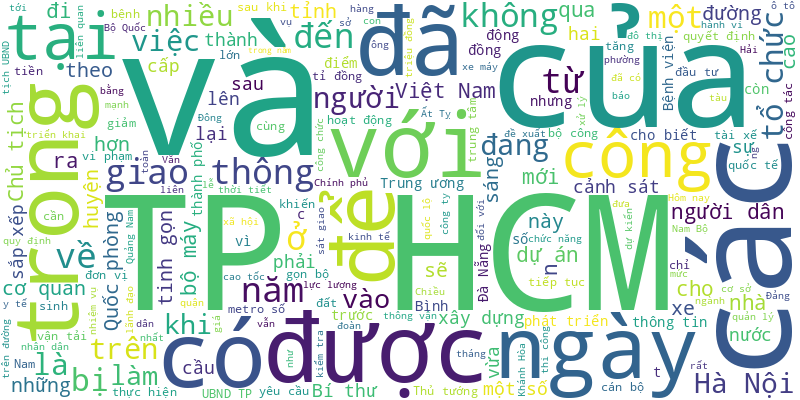
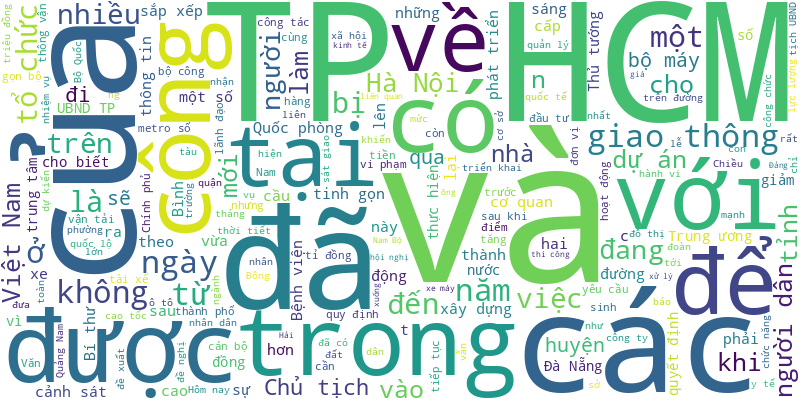
🍀 = 100%

diff --git a/README.md b/README.md
@@ -1,6 +1,14 @@
 # Tuoi Tre RSS 
 
 ## Giáo dục 
+- Bộ Giáo dục và Đào tạo vừa ban hành thông tư quy định về dạy thêm, học thêm với nhiều điểm mới.
+- Những sinh viên là nhà sư sẽ khó đạt được danh hiệu 'Sinh viên 5 tốt' vì vướng tiêu chí 'thể lực tốt'.
+- Nhiều ý kiến ủng hộ việc 'cấm giáo viên dạy thêm tại nhà', nhưng cũng không ít băn khoăn.
+- Mỗi suất học bổng trị giá 10 triệu đồng, trao cho các thủ khoa đầu vào đại học ở các trường, ngành năm 2024.
+- Chương trình một ngày làm sinh viên luật của Trường đại học Luật TP.HCM thu hút hơn 400 học sinh THPT tại TP.HCM và các tỉnh lân cận hào hứng tham gia.
+- Dự án công ích sẽ cung cấp nhà ở miễn phí trong 7 ngày cho sinh viên mới tốt nghiệp tìm việc trong thời gian từ 14-11-2024 đến 30-6-2025.
+- Ông Thomas J. Vallely, một trong những người thúc đẩy thành lập Trường ĐH Fulbright Việt Nam, vừa được Tổng thống Joe Biden vinh danh với Huân chương Công dân tổng thống.
+- Đại học Quốc gia TP.HCM chính thức khởi động chuỗi chương trình hòa nhạc dành cho sinh viên với chủ đề 'Giao hưởng tuổi trẻ' năm 2025.
 - Trước những kỳ thi quan trọng sẽ là lần đầu tiên diễn ra theo Chương trình giáo dục phổ thông 2018, nhiều học sinh lớp 12 không khỏi lo lắng và tận dụng dịp Tết này để "nấu sử xôi kinh".
 - Năm 2025, Đại học Kinh tế quốc dân dự kiến tuyển sinh 73 mã ngành/chương trình với 89 chương trình đào tạo, và 3 phương thức tuyển sinh chính.
 - Một giáo viên Trường THPT Phan Ngọc Hiển (huyện Năm Căn, tỉnh Cà Mau) đã nhận 7 triệu đồng để dạy kèm thi lại cho một học sinh. Giáo viên bị nhà trường kỷ luật khiển trách.
@@ -993,17 +1001,52 @@
 - Để tránh những hệ lụy đau lòng xuất phát từ việc sử dụng mạng xã hội thiếu ý thức và yếu kỹ năng, gia đình - nhà trường - xã hội phải quyết liệt vào cuộc.
 - Từ hơn 300 thí sinh, cuộc thi học thuật cấp thành 'Hướng dẫn viên du lịch tiềm năng' đã tìm ra quán quân.
 - Không chỉ kêu gọi cán bộ, giảng viên ủng hộ ít nhất một ngày lương, trích tiền quỹ ra ủng hộ đồng bào vùng lũ, nhiều trường còn rà soát tổng số sinh viên trong trường bị ảnh hưởng bởi lũ lụt để lên phương án hỗ trợ.
-- Đây là một trong những mục tiêu trong mục tiêu hợp tác của Trường đại học Luật TP.HCM và UBND tỉnh Khánh Hòa.
-- Hiện có quá nhiều thông tin tư vấn, cách tổ chức khá giống nhau khiến cho học sinh 'ngộp'. Do vậy rất cần chương trình tư vấn tuyển sinh chất lượng.
-- Tổ chức giáo dục Ormiston Academies Trust sẽ tiên phong trong việc cấm học sinh sử dụng điện thoại thông minh (smartphone) trong trường học.
-- 'Bão lũ đang gây hậu quả vô cùng nghiêm trọng cho đồng bào các tỉnh phía Bắc. Nhìn thấy những hình ảnh đau xót, chúng tôi không thể đứng ngoài cuộc”, TS Phan Hồng Hải, hiệu trưởng Trường đại học Công nghiệp TP.HCM, chia sẻ.
-- GS.TS Đào Văn Đông được bổ nhiệm làm hiệu trưởng Trường đại học Thái Bình Dương kể từ năm học 2024-2025.
-- Giải thưởng khoa học và công nghệ dành cho giảng viên trẻ trong các cơ sở giáo dục đại học định kỳ tổ chức 3 năm một lần.
-- Bài báo "'Cấm học sinh sử dụng điện thoại trong trường' (Tuổi Trẻ ngày 13-9) thu hút sự quan tâm của dư luận.
-- Hàng loạt trường đại học sau các đợt xét tuyển bổ sung đến nay vẫn còn thiếu cả ngàn chỉ tiêu. Nhiều trường quyết định khép lại mùa tuyển sinh 2024 do cạn nguồn tuyển.
 ![Edu](Edu.png)
 ## Thời Sự 
-- Phòng Cảnh sát giao thông Công an Hà Nội khẳng định thông tin 'thanh niên thu về 50 triệu đồng sau 1 ngày tố giác vi phạm giao thông' là sai sự thật.
+- Nghị định 168 tăng mức xử phạt đã thay đổi ý thức tham gia giao thông của nhiều người, qua ngã tư không còn chen vượt đèn đỏ.
+- Ngày 4-1, Thủ tướng đã dự và trao quyết định phê duyệt quy hoạch TP.HCM thời kỳ 2021 - 2030, tầm nhìn đến năm 2050 cho lãnh đạo TP.HCM.
+- Một số người biện minh hành vi đánh người của mình là do căng thẳng, áp lực cuộc sống. Tuy nhiên, không thể dùng nó như một lý do biện hộ cho hành vi bạo lực.
+- Một số tin tức đáng chú ý: Quy định mới liên quan niên hạn ô tô; Chứng khoán KIS Việt Nam có chủ tịch mới; Phạt Công ty Herbalife Việt Nam 205 triệu đồng...
+- Hôm nay 5-1, thời tiết cả nước tương đối ổn định, mưa giảm, nhiệt độ cũng giảm nhẹ.
+- Ngày 4-1, Trung tâm Kiểm soát bệnh tật tỉnh Đồng Nai cho biết trên địa bàn vừa ghi nhận một trường hợp bé gái 4 tuổi tử vong do bệnh ho gà.
+- Những sinh viên là nhà sư sẽ khó đạt được danh hiệu 'Sinh viên 5 tốt' vì vướng tiêu chí 'thể lực tốt'.
+- Hiệp hội Du lịch Nha Trang - Khánh Hòa vừa có văn bản đề xuất 'xử lý triệt để' đối với các loại ô tô, taxi và để xe khách du lịch trên 29 chỗ 'được lưu thông vào trung tâm TP Nha Trang trong khung giờ cao điểm'.
+- Thủ tướng Phạm Minh Chính vừa ký các quyết định phê chuẩn kết quả bầu, miễn nhiệm chức vụ chủ tịch UBND tỉnh Kiên Giang và Hà Giang.
+- 'Xuân biên phòng ấm lòng dân bản' năm 2025 đã mang lại cho người dân vùng biên giới TP Hà Tiên một cái Tết Nguyên đán Ất Tỵ ấm áp, no đủ.
+- Đây là thông tin Thủ tướng Phạm Minh Chính nêu ra tại hội nghị rà soát, tháo gỡ những dự án, công trình tồn đọng tại TP.HCM.
+- Trên đường đến trung tâm y tế, sản phụ Hồ Thị Léc trở dạ và được lái xe đồn biên phòng và chồng hỗ trợ sinh ngay trên xe của đơn vị.
+- Thủ tướng Chính phủ vừa có quyết định bổ sung hai tuyến cao tốc vào quy hoạch là Quảng Ngãi - Kon Tum và Cà Mau - Đất Mũi.
+- Trong chuyến công tác tại TP.HCM, Thủ tướng Phạm Minh Chính đã rà soát, cho ý kiến tháo gỡ khó khăn, vướng mắc liên quan đến dự án tại TP.HCM.
+- Đồn biên phòng Vĩnh Điều (huyện Giang Thành, Kiên Giang) vừa bắt quả tang nam thanh niên vận chuyển trái phép hàng cấm khoảng 15kg pháo.
+- Thủ tướng cho biết đã đề nghị tỉ phú Phạm Nhật Vượng xây dựng một hệ thống tàu điện ngầm từ trung tâm TP.HCM đến huyện Cần Giờ.
+- Khoảng 6 tháng nay, anh Huỳnh Ngọc Cường thường kéo xe hút đinh, cũng như nhặt ve chai dọc trên quốc lộ 1 từ TP.HCM về Long An.
+- Bộ Giao thông vận tải đề nghị UBND TP.HCM, Long An, Tiền Giang sớm có ý kiến về bộ trước ngày 8-1 để báo cáo Thủ tướng.
+- Hai người nhận là phóng viên báo dọa viết bài phản ánh vi phạm rồi ép doanh nghiệp phải ký hợp đồng tuyên truyền quảng cáo từ 55-95 triệu đồng.
+- Bộ trưởng Phạm Thị Thanh Trà yêu cầu rà soát, tinh giản biên chế sau khi hoàn thành việc hợp nhất Bộ Lao động - Thương binh và Xã hội với Bộ Nội vụ.
+- Thủ tướng bày tỏ điều cần quan tâm nhất là việc thực hiện quy hoạch để ra của cải vật chất, người dân phải được hưởng lợi từ việc thực hiện quy hoạch.
+- Đại tá Nguyễn Đức Hải, giám đốc Công an tỉnh Quảng Trị, được điều động làm giám đốc Công an tỉnh Đồng Nai.
+- Cán bộ, công chức, viên chức, người lao động trên địa bàn tỉnh Bạc Liêu sẽ được lãnh lương tháng 2 trước Tết Nguyên đán Ất Tỵ 2025.
+- Khi chờ đèn đỏ có được rẽ phải hay không? Rẽ phải trong trường hợp nào sẽ không vi phạm luật giao thông?
+- Con trăn gấm dài khoảng 4m, ước nặng gần 100kg được phát hiện ở bìa rừng Rạch Vẹm, xã Gành Dầu, TP Phú Quốc.
+- UBND TP.HCM tổ chức hội nghị công bố quy hoạch TP.HCM thời kỳ 2021-2030, tầm nhìn đến năm 2050 với sự tham dự của Thủ tướng Phạm Minh Chính.
+- Sau sắp xếp, tinh gọn bộ máy, Kiên Giang dư 6 giám đốc sở và hàng chục trưởng phòng.
+- Liên tiếp những vụ hành hung do mâu thuẫn khi va chạm nhẹ trên đường, vì đâu nên nỗi?
+- Sau khi va quẹt giao thông, nạn nhân đã bị Lê Văn Hiền đánh đập tới tấp dẫn đến dập não phải đi cấp cứu tại bệnh viện và đã tử vong. Nghi phạm đánh người đầu thú và bị tạm giữ.
+- Sáng 4-1, Lực lượng vũ trang TP.HCM đã được phong tặng danh hiệu Anh hùng Lực lượng vũ trang nhân dân lần 3.
+- 0h12 ngày 4-1, trực thăng mang số hiệu VN-8620 thuộc Binh đoàn 18 (Bộ Quốc phòng) bay cấp cứu quân nhân được chẩn đoán viêm màng não, tiên lượng nặng từ đảo An Bang, đã hạ cánh an toàn xuống Bệnh viện Quân y 175, TP.HCM.
+- UBND tỉnh Bắc Ninh đề xuất chuyển đổi sân bay Gia Bình thành cảng hàng không công suất quy hoạch dự kiến từ 1 - 3 triệu hành khách/năm, dự phòng mở rộng công suất khoảng 5 triệu hành khách/năm.
+- Bực tức việc mẹ ngủ, không chuẩn bị đồ ăn sáng cho mình, Khanh dùng dao đâm chết mẹ rồi chờ trời tối kéo thi thể ném xuống sông phi tang.
+- Cơ sở sản xuất ván lạng ở Bình Phước bị xử phạt gần 60 triệu đồng do sử dụng lao động nước ngoài trái phép.
+- Đại diện đội cảnh sát giao thông - trật tự Công an TP Thủ Đức cho biết vẫn chưa mời được chủ xe Audi 'chạy đến đâu đèn tín hiệu loạn xạ đến đó' lên làm việc nên không rõ clip trên có cắt ghép hay không.
+- Thanh tra An Giang xác định hàng loạt vi phạm pháp luật về đầu tư công và dự án khu dân cư và chuyển hồ sơ sang công an để điều tra.
+- Tại dự thảo Luật Tổ chức Chính phủ (sửa đổi), Bộ Nội vụ đề xuất thiết kế theo hướng phân định và khái quát hóa các nhóm nhiệm vụ của Thủ tướng.
+- Thủ tướng Phạm Minh Chính yêu cầu các bộ ngành, địa phương không coi trung tâm tài chính là công việc của riêng TP.HCM và Đà Nẵng mà là việc chung của đất nước, toàn hệ thống phải cùng làm, cùng phát triển.
+- Nhiều chuyên gia khẳng định đây là thời điểm lý tưởng để đưa TP.HCM thành trung tâm tài chính toàn cầu. Tất nhiên, để thực hiện kế hoạch này còn nhiều việc phải làm.
+- TP.HCM đặt mục tiêu đến năm 2035 sẽ có 7 tuyến metro có chiều dài 355km. Bên cạnh cơ chế và chính sách đặc thù, cần thêm giải pháp giúp tối ưu hóa hiệu quả và giảm trở ngại trong quá trình xây dựng.
+- Không ít đoạn sông Đáy ở Hà Nội bị ô nhiễm cực độ, GS Vũ Trọng Hồng đề nghị lắp đặt ngay bơm thuyền để cứu dòng sông.
+- UBND tỉnh Khánh Hòa vừa có phương án sắp xếp các cơ quan trực thuộc, gồm có tên các sở sau khi hợp nhất và hướng sắp xếp nhân sự lãnh đạo các đơn vị sáp nhập, hợp nhất.
+- TP.HCM đang đứng trước cơ hội lịch sử để trở thành trung tâm tài chính quốc tế - một giấc mơ được ấp ủ hơn 20 năm với sự ủng hộ từ Bộ Chính trị, mở ra triển vọng mới cho sự phát triển kinh tế không chỉ của thành phố mà còn của cả Việt Nam.
+- Phòng cảnh sát giao thông Công an Hà Nội khẳng định thông tin 'thanh niên thu về 50 triệu đồng sau 1 ngày tố giác vi phạm giao thông' là sai sự thật.
 - Ngày 4-1, Thủ tướng Phạm Minh Chính dự lễ công bố xây dựng Trung tâm tài chính khu vực và quốc tế tại Việt Nam; công bố quy hoạch TP.HCM.
 - Tin tức đáng chú ý: Gần Tết số vụ lừa đảo trực tuyến tăng mạnh; Hà Nội nhiều nhà tái định cư hoang phế; TP.HCM tăng cường kiểm tra nhà ở kết hợp sản xuất kinh doanh...
 - Hôm nay 4-1, thời tiết Bắc Bộ ngày nắng, trời lạnh. Trung Bộ mưa rào, Nam Bộ có mây, mưa rào và dông vài nơi.
@@ -1960,51 +2003,9 @@
 - Diễn biến này theo đúng lộ trình mà UBND TP.HCM đặt ra trong quyết định Ban hành giá dịch vụ thoát nước và xử lý nước thải trên địa bàn TP giai đoạn 2021 - 2025.
 - Sở Y tế TP.HCM cho biết đã xử phạt và cho vào danh sách 'đen' nhiều phòng khám có hành vi vi phạm.
 - Khu đất Cảng Sài Gòn đề nghị làm dự án cảng tàu khách quốc tế Nhà Rồng - Khánh Hội đang vướng một dự án khác.
-- Vụ việc tại Trường quốc tế Ngôi sao Sài Gòn (Saigon Star) đang thu hút sự chú ý của dư luận, đồng thời cũng đặt ra nhiều câu hỏi về lỗ hổng minh bạch thông tin.
-- Việc kiểm định khí thải xe máy sẽ được áp dụng với xe có thời gian sản xuất trên 5 năm. Chủ xe phải mang xe đến cơ sở đăng kiểm để kiểm định.
-- Tuổi Trẻ có cuộc trao đổi với ông Lê Như Tiến - nguyên phó chủ nhiệm Ủy ban Văn hóa, Giáo dục của Quốc hội - xung quanh cuộc cách mạng tinh gọn bộ máy.
-- Lực lượng chức năng sẽ dùng mìn để phá khối đá nặng hơn 100 tấn đổ xuống đường đèo Khánh Lê (huyện Khánh Vĩnh, tỉnh Khánh Hòa).
-- Một số tin tức đáng chú ý: Ngân hàng đồng loạt tăng lãi suất; TP.HCM cao điểm xử phạt vi phạm giao thông, lấn chiếm vỉa hè; Phải đăng ký mới được bay flycam...
-- Hôm nay 16-12, thời tiết mưa to tập trung ở các tỉnh thành từ Đà Nẵng đến Bình Thuận. Bắc Bộ nắng nhưng rét, Nam Bộ còn mưa rào vài nơi.
-- Người đàn ông làm nghề thợ hồ cho biết sau khi xong công việc, chủ nhà mời ở lại uống bia. Sau đó người này say xỉn tự lái xe máy về, bị cảnh sát giao thông lập biên bản.
-- Một người đàn ông 55 tuổi ở huyện Ninh Hải (Ninh Thuận) trong lúc từ ruộng muối về nhà không may trượt chân rồi đuối nước thương tâm.
-- Tối 15-12, trên địa bàn TP Nha Trang (Khánh Hòa), các hồ chứa nước xả lũ kèm theo mưa lớn đã khiến nước lũ lên nhanh. Nhiều người dân phải hối hả dọn dẹp đồ đạc để tránh lụt ngay trong đêm.
-- Tối 15-12, ông Huỳnh Thanh Vương - chủ tịch UBND xã Phước Hòa (huyện Tuy Phước, tỉnh Bình Định) - xác nhận có hai học sinh ở xã này chết đuối vào chiều cùng ngày.
-- Hai học sinh lớp 4 ở huyện Duy Xuyên, Quảng Nam đi qua đoạn đường ngập nước lũ, rủ nhau lội xuống nước chơi thì chẳng may bị chết đuối.
-- Lực lượng chức năng hai tỉnh Lâm Đồng và Khánh Hòa hợp sức tiếp tế thức ăn và dọn dẹp hiện trường, đưa du khách ra khỏi đèo Khánh Lê (địa phận tỉnh Khánh Hòa) đang sạt lở.
-- Chiều 15-12, Thủ tướng Chính phủ Phạm Minh Chính đã kiểm tra dự án cao tốc Bắc - Nam, dự án thành phần Cần Thơ - Cà Mau, đồng thời chỉ đạo toàn bộ dự án phải hoàn thành cuối năm 2025.
-- Hai chiếc máy bay cường kích A-10 và một chiếc vận tải quân sự C-130J của Mỹ liên tiếp đáp xuống sân bay Gia Lâm, Hà Nội trong trưa, chiều 15-12.
-- Mưa lớn kéo dài đã khiến đất đá sạt lở, gây cản trở giao thông trên tuyến đường ven biển đẹp nhất Ninh Thuận. Ngoài ra còn có hơn 100 căn nhà ở các vùng trũng thấp của tỉnh này bị ngập.
-- Liên quan đến vụ sạt lở trên đèo Khánh Lê vào sáng nay, hiện có hơn 250 hành khách bị mắc kẹt, sức khỏe ổn định.
-- Phòng cảnh sát kinh tế Công an Đà Nẵng vừa phát hiện, tạm giữ số lượng thuốc lá điện tử và phụ kiện, tinh dầu đi kèm được xem là lớn nhất từ trước đến nay trên địa bàn thành phố.
-- Do mưa lớn nhiều ngày qua, để đảm bảo an toàn, UBND tỉnh Khánh Hòa đã tiến hành điều tiết 5 hồ chứa nước, vậy những địa phương nào của tỉnh này có nguy cơ ngập lụt?
-- Cú va chạm mạnh giữa hai xe khách trên quốc lộ 14 khiến 1 tài xế chết, 2 hành khách bị thương.
-- Điện lực Tuy Hòa (Phú Yên) đã khắc phục xong hệ thống đèn chiếu sáng phía nam cầu Hùng Vương sau phản ánh của Tuổi Trẻ Online.
-- Hiện lực lượng chức năng đang nỗ lực giải phóng đất đá sạt lở xuống đường đèo Khánh Lê nối 2 tỉnh Khánh Hòa và Lâm Đồng, nhưng chưa khẳng định chính xác thời điểm thông xe trở lại.
-- Những ngày này, không khí tại các ga metro số 1 sôi động hơn bởi nhiều người dân đến trải nghiệm.
-- Hai người đi xe máy bị người đàn ông đi xe máy khác ép xe ngã nhào xuống đường. Sau khi xảy ra vụ việc, người đàn ông không dừng lại mà tiếp tục di chuyển.
-- Cơ quan chức năng huyện Châu Đức, tỉnh Bà Rịa - Vũng Tàu đang điều tra vụ một chiếc ô tô con cán qua người một phụ nữ trước quán karaoke khiến người này bị thương.
-- Sau vụ cô gái lái ô tô tông gãy lan can cầu Đồng Nai rồi lao xuống sông tử vong, đoạn lan can này đã được đơn vị quản lý huy động công nhân lắp tạm bằng những cây tre, sơn xen kẽ màu đỏ, trắng.
-- Sau khi lên mạng tìm tòi, ba học sinh lớp 6 đã mua diêm về chế tạo pháo, không may pháo phát nổ. Cả ba bị thương phải nhập viện cấp cứu.
-- Thủ tướng Phạm Minh Chính cho biết chủ trương tinh gọn bộ máy được sự thống nhất cao trong Đảng,  nhân dân trong và ngoài nước. Việc tinh gọn bộ máy phải làm tích cực, không thể chần chừ.
-- Ngày 15-12, tại TP Pleiku (Gia Lai), Bộ Quốc phòng công bố quyết định giải thể Quân đoàn 3, Quân đoàn 4 và thành lập Quân đoàn 34.
-- Sâu trong Vườn quốc gia Kon Ka Kinh tại tỉnh Gia Lai, hàng ngàn cây pơ mu cổ thụ hùng dũng vươn mình giữa rừng già ở độ cao 1.400m so với mực nước biển.
-- UBND TP.HCM vừa có chỉ đạo về việc chuyển mục đích sử dụng đất sang đất ở của hộ gia đình, cá nhân tại các đồ án quy hoạch phân khu.
-- Trang fanpage của Phòng cảnh sát giao thông (Công an Đà Nẵng) vừa kêu gọi người dân nếu phát hiện tài xế sử dụng điện thoại trong khi lái xe hãy báo ngay cho cảnh sát giao thông.
-- Ngày 15-12, Công an Hà Nội ra quân đợt cao điểm bảo đảm trật tự an toàn giao thông dịp cuối năm, Tết Nguyên đán Ất Tỵ và các lễ hội đầu xuân năm 2025.
-- Cần phải xử lý nghiêm hành vi trộm cắp nắp cống, dây cáp ngầm... không thể coi đó là trộm cắp vặt.
-- TP.HCM có hơn 74.000 nhà trọ không đáp ứng tiêu chuẩn diện tích tối thiểu 4m² sàn/người với khoảng 185.000 người đang thuê.
-- Từ ngày 15-12 đến ngày 14-2, Công an TP.HCM sẽ thực hiện cao điểm tấn công, trấn áp các loại tội phạm, bảo đảm an ninh, trật tự dịp Tết Nguyên đán Ất Tỵ 2025.
-- Tấm sắt 'bốc hơi', tạo lỗ hổng lớn giữa cầu; Chim trời bị làm thịt bán ở vỉa hè; Xe ben ngang nhiên chạy ngược chiều vào giờ cao điểm… là những thông tin nổi bật bạn đọc Tuổi Trẻ Online cung cấp.
-- Sau nhiều năm rà soát, dự án đoạn 3 đường vành đai 2 dài 2,7km vẫn chưa thể tái khởi động vì còn vướng mắc.
-- Trước thời điểm dư luận xôn xao về vụ việc cưỡng chế đất và phụ huynh đòi rút học phí, bà Võ Thị Phương Thảo - chủ Trường quốc tế Saigon Star - cũng đã bị Công an TP.HCM truy tìm từ tháng 1-2024.
-- N., 22 tuổi, đang là học viên cao học, trên đường từ TP.HCM về nhà thì bất ngờ xe tông gãy lan can thành cầu, ô tô rơi xuống sông Đồng Nai khiến nạn nhân tử vong.
-- Lễ kỷ niệm 30 năm vịnh Hạ Long được UNESCO vinh danh là Di sản thiên nhiên thế giới vừa được tổ chức long trọng, ý nghĩa.
-- Do mưa lớn kéo dài trong nhiều ngày qua, sáng nay đèo Khánh Lê (tỉnh Khánh Hòa) đã bị sạt lở, giao thông ách tắc.
-- Tại Việt Nam, để khuyến sinh, một số địa phương đã có chính sách khen thưởng, hỗ trợ tiền mặt
-- Tuần này thời tiết cả nước có sự phân hóa rõ rệt, Bắc Bộ rét đậm, rét hại, Trung Bộ mưa to, còn Nam Bộ trời nắng, chiều tối mưa rào vài nơi.
 ![New](News.png)
 ## Nhịp sống số 
+- Ngày 3-1, Google thông báo đã thanh toán 100 triệu CAD (tương đương 69 triệu USD) cho các cơ quan báo chí Canada để sử dụng nội dung thông tin trên nền tảng này.
 - Điện thoại realme C75 đang được mở bán đặc quyền tại Thế Giới Di Động chính là một "chiến binh" sẵn sàng đồng hành cùng bạn trong mọi hoàn cảnh.
 - Trong số 10 sự kiện công nghệ thông tin và truyền thông tiêu biểu nhất năm 2024, các sự kiện liên quan bán dẫn, viễn thông chiếm vị trí nổi bật.
 - Báo Tuổi Trẻ vừa chính thức đưa vào hoạt động tòa soạn chuyển đổi số theo phong cách hiện đại, đa năng và sáng tạo.
@@ -3003,5 +3004,4 @@
 - TTO - Apple gần như chắc chắn sẽ trình làng phiên bản HĐH mới iOS 12 tại hội nghị các nhà phát triển thường niên WWDC ngày 4-6 (giờ Mỹ).
 - TTO - Trong thập kỷ qua, Facebook đã hợp tác chia sẻ dữ liệu người dùng với ít nhất 60 nhà sản xuất thiết bị điện tử như Apple, Amazon, BlackBerry, Microsoft và Samsung.
 - TTO - Facebook thực sự không muốn là công ty truyền thông khi vừa tuyên bố sẽ gỡ bỏ phần nội dung tin tức nổi bật (Trending) trên trang của họ từ tuần tới.
-- TTO - Nếu bạn là người ít có thói quen kiểm tra điện thoại trước khi rời khỏi các nơi mình đã viếng thăm thì bạn nên chuẩn bị tinh thần lúc thiết bị “bốc hơi”. Tuy nhiên, bạn cũng đừng băn khoăn nếu đủ nhanh để thực hiện các bước đơn giản sau đây.
 ![life](Life.png)
